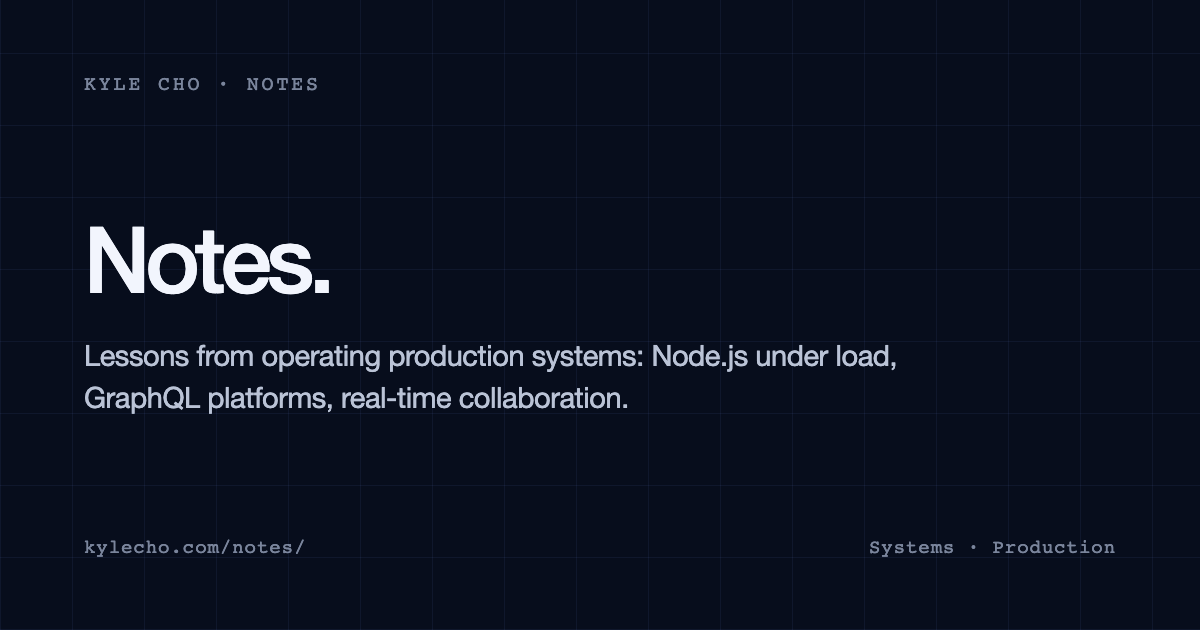
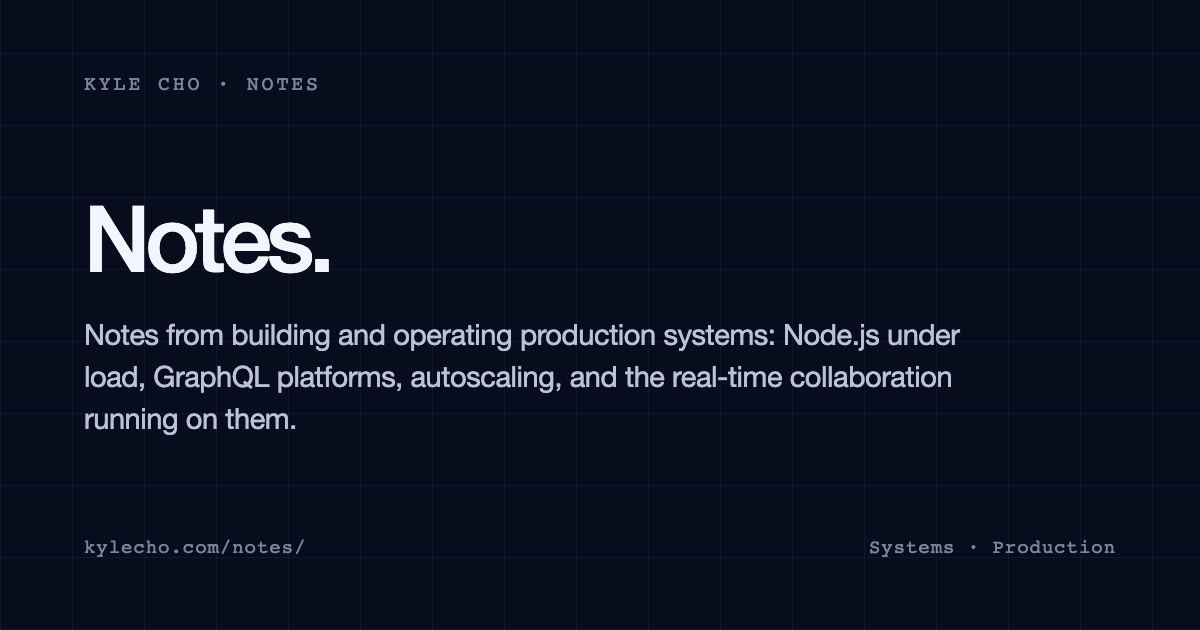
Reframe the Notes description around the platform
It read "...real-time collaboration, frontend performance", which was
accurate when essay #4 shipped but now argues against the positioning
the rest of the site settled on.

Three of the five essays really are real-time or frontend, so the fix
isn't to drop that — it's to stop listing it as a separate discipline.
It now leads with the platform and treats collaboration as what runs on
top, which is both true of the essays and the more useful claim: the
person who has built the thing the platform serves.

Regenerates og-notes.png from the same string. That card had drifted
from the page copy before this change and now matches it exactly.

Claude-Session: https://claude.ai/code/session_01UuifHCjdVcuUjXDXDw4Qv6

Changed region(s): [[0.0617, 0.5127, 0.8017, 0.6937], [0.0617, 0.3317, 0.2775, 0.4825]]

diff --git a/notes/index.html b/notes/index.html
@@ -3,7 +3,7 @@
 <head>
   <meta charset="UTF-8">
   <meta name="viewport" content="width=device-width, initial-scale=1">
-  <meta name="description" content="Notes from building and operating production systems: Node.js under load, GraphQL platforms, autoscaling, real-time collaboration, frontend performance.">
+  <meta name="description" content="Notes from building and operating production systems: Node.js under load, GraphQL platforms, autoscaling, and the real-time collaboration running on them.">
   <meta name="theme-color" content="#070d1c">
 
   <title>Notes — Kyle Cho</title>
@@ -12,14 +12,14 @@
   <meta property="og:type" content="website">
   <meta property="og:site_name" content="Kyle Cho">
   <meta property="og:title" content="Notes — Kyle Cho">
-  <meta property="og:description" content="Notes from building and operating production systems: Node.js under load, GraphQL platforms, autoscaling, real-time collaboration, frontend performance.">
+  <meta property="og:description" content="Notes from building and operating production systems: Node.js under load, GraphQL platforms, autoscaling, and the real-time collaboration running on them.">
   <meta property="og:url" content="https://kylecho.com/notes/">
   <meta property="og:image" content="https://kylecho.com/assets/og-notes.png">
   <meta property="og:image:width" content="1200">
   <meta property="og:image:height" content="630">
   <meta name="twitter:card" content="summary_large_image">
   <meta name="twitter:title" content="Notes — Kyle Cho">
-  <meta name="twitter:description" content="Notes from building and operating production systems: Node.js under load, GraphQL platforms, autoscaling, real-time collaboration, frontend performance.">
+  <meta name="twitter:description" content="Notes from building and operating production systems: Node.js under load, GraphQL platforms, autoscaling, and the real-time collaboration running on them.">
   <meta name="twitter:image" content="https://kylecho.com/assets/og-notes.png">
   <link rel="alternate" type="application/atom+xml" title="Kyle Cho — Notes" href="/notes/feed.xml">
 
@@ -75,8 +75,8 @@
 
     <p class="patterns-intro" data-reveal>
       Notes from building and operating production systems: Node.js
-      under load, GraphQL platforms, autoscaling, real-time collaboration,
-      frontend performance.
+      under load, GraphQL platforms, autoscaling, and the real-time
+      collaboration running on them.
     </p>
 
     <!-- No data-reveal: it would blank the card's backdrop-filter mid-animation -->
